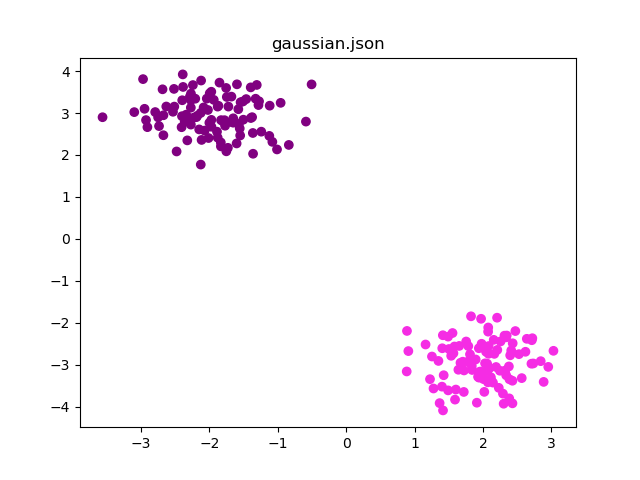
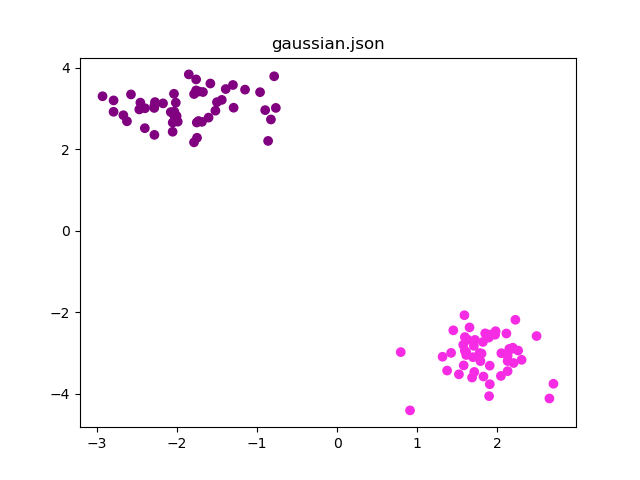
Update data

diff --git a/data/generate.py b/data/generate.py
@@ -97,7 +97,7 @@ def classifyData(numSamples, noise, type):
 if __name__ == "__main__":
     for type in ["gaussian", "circle", "spiral", "xor"]:
         print("Generating " + type + " data...")
-        classifyData(200, .5, type)
+        classifyData(100, .5, type)
     print("Done!")
 
 
